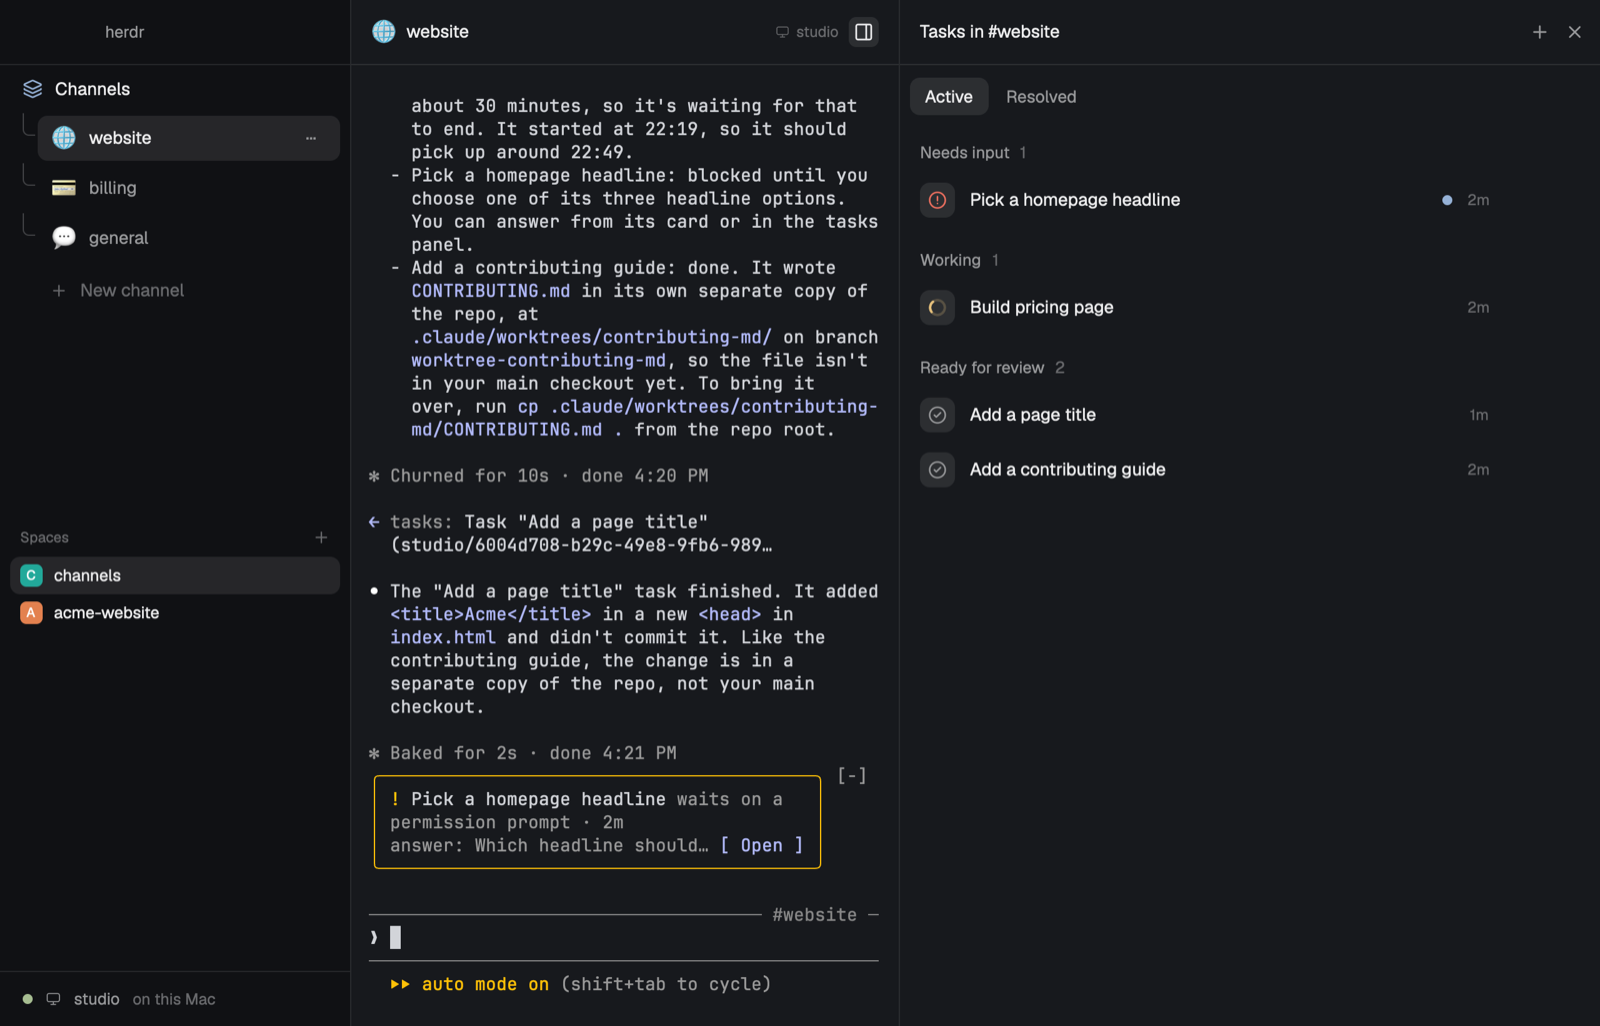
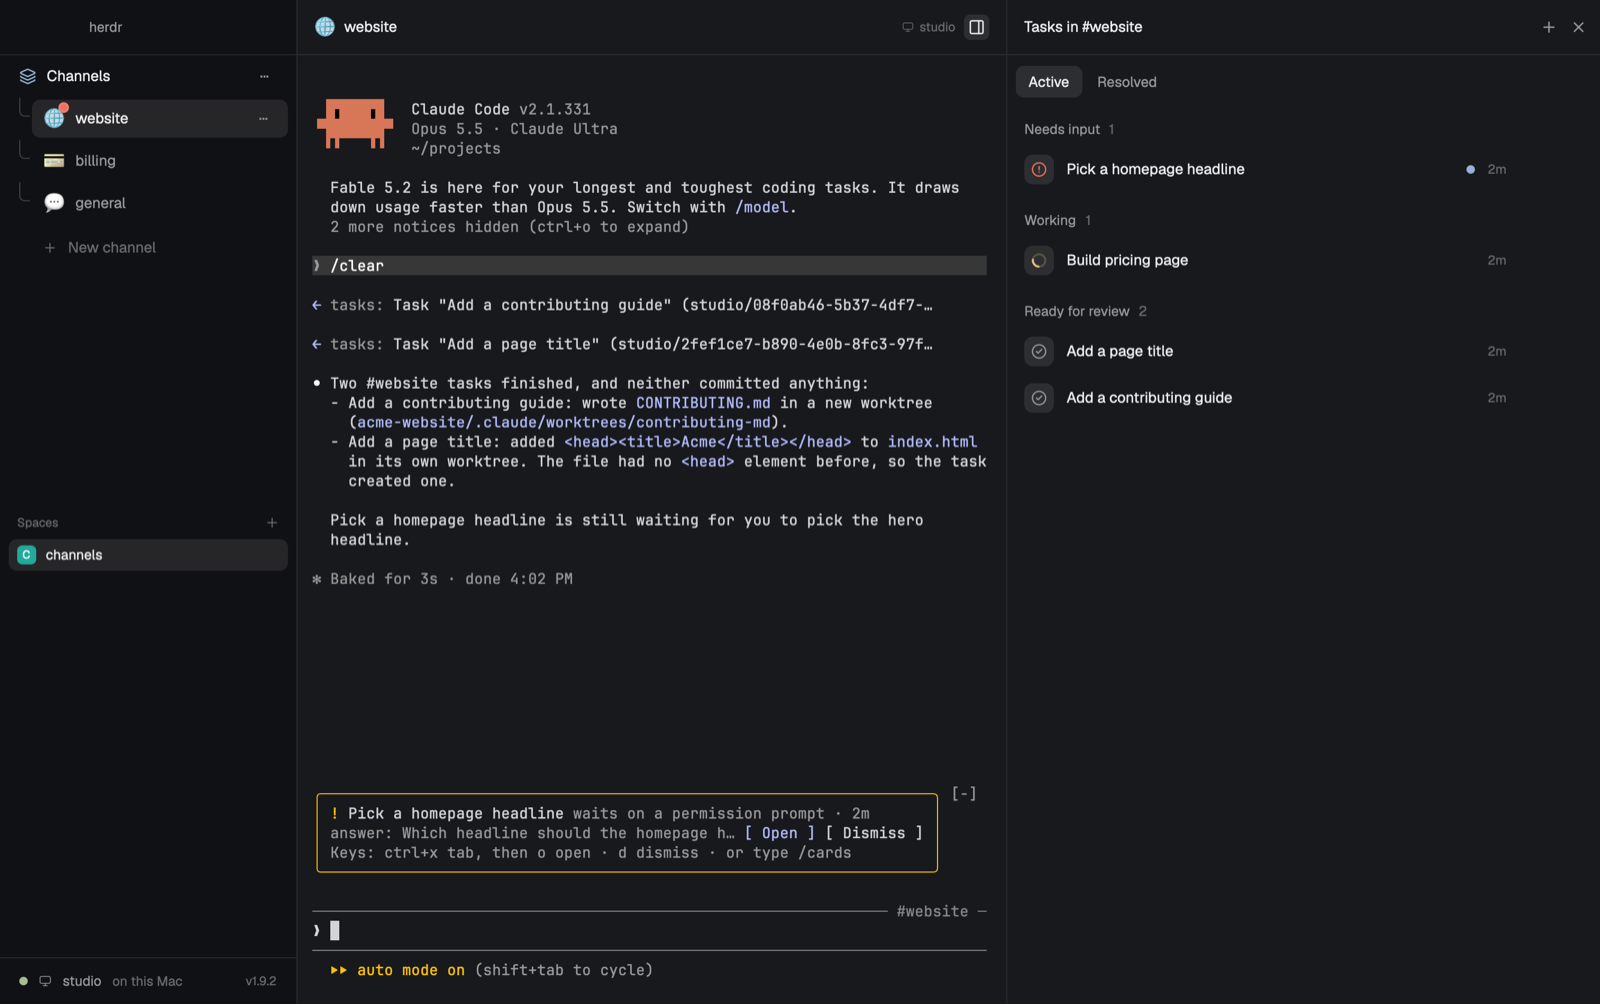
docs: The hero shows #website's dot; a test names no backend by host
Claude-Session: https://claude.ai/code/session_01Nb4n9YuPbf8Fov8UvCu3ua

diff --git a/README.md b/README.md
@@ -14,7 +14,7 @@ Everything is local: the channel store is a folder on disk, tasks run under your
 the herdr mod runs every command on the same machine. No server is involved, unless you turn on
 [cloud tasks](#cloud-tasks) (off by default), which run tasks at claude.ai/code.
 
-![The channels layout in Herdr: the channel list on the left with Herdr's spaces list below it (channels, acme-website); the #website channel's Claude Code chat in the middle, where a one-line notice from the Add a page title task is followed by the chat saying in a few lines that it finished, above a task card saying Pick a homepage headline waits on a permission prompt; and the tasks panel on the right with one task that needs input, one working and two ready for review](preview.png)
+![The channels layout in Herdr: the channel list on the left, where #website has a red dot on its icon for the task waiting on you, with Herdr's spaces list below it; the #website channel's Claude Code chat in the middle, where one-line notices from the Add a contributing guide and Add a page title tasks are followed by the chat saying in a few lines what they did, above a task card saying Pick a homepage headline waits on a permission prompt; and the tasks panel on the right with one task that needs input, one working and two ready for review](preview.png)
 
 ## Contents
 
